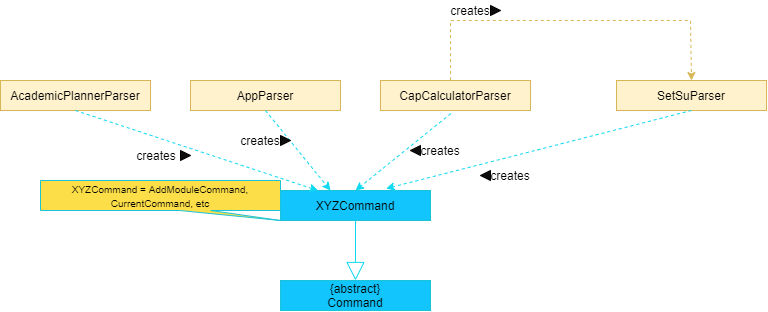
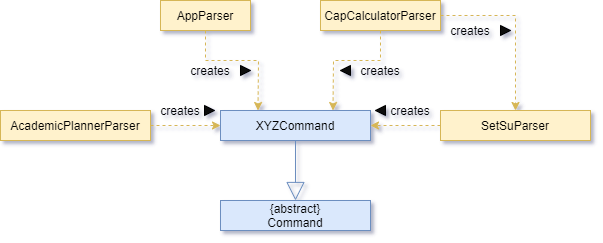
Updated DG Diagram and PPP

diff --git a/docs/team/khenus.md b/docs/team/khenus.md
@@ -18,7 +18,7 @@ PlanNUS is a CLI-based project which aims to provide a centralised solution for 
 * **New Functionality:** Creation of `ModuleLoader` class
     * What it does: The `ModuleLoader` class allows for the creation of a POJO and HashMap from the formatted JSON file containing all NUS module information using GSON library from Google.
     * Justification: This class creates an ArrayList named `allModules` for fellow developers to access module information when needed.  It also creates a HashMap named `moduleMap` that stores the Module Code and the index of said module in `allModules`. This allows for efficient retrieval of module information from `allModules`.
-    * Highlights: This implementation allows for near $o(1)$ access of the huge `allModules` array with 12436 entries, preventing PlanNUS from feeling sluggish. 
+    * Highlights: This implementation allows for near *o(1)* access of the huge `allModules` array with 12436 entries, preventing PlanNUS from feeling sluggish. 
 * **New Functionality:** Creation of `AppParser` class
     * What it does: The `AppParser` class parses user input and starts the correct application for users. `AppParser` also handles the passing of user data between different application. 
     * Justification:  This class is created to allow for new applications to be added into PlanNUS easily. It also allows for formatting of user input before it is verified against the list of known command and acts as a centralised entry point for their individual applications.
@@ -28,7 +28,7 @@ PlanNUS is a CLI-based project which aims to provide a centralised solution for 
 * **New Functionality:**  Creation of `CalculatorUtils` class
     * What it does: This class updates user's CAP after each module operation such as `add`, `edit` and `remove`
     * Justification: This calculation is needed after each operation to ensure that the current CAP of the user is updated. It also prevents miscalculation of CAP due to Special Grades such as SU.
-    * Highlights: These operations improves overall efficiency of CAP Calculator as these operation execute within $o(1)$ time and allows `current` command in CAP Calculator to be $o(1)$.
+    * Highlights: These operations improves overall efficiency of CAP Calculator as these operation execute within *o(1)* time and allows `current` command in CAP Calculator to be *o(1)*.
 * **New Functionality:** Creation of `FieldValidator` class
     * What it does: `FieldValidator` is responsible for ensuring that each entry from the save file is valid. It also gives information regarding which specific field within that entry is corrupted.
     * Justification: This class is needed to ensure that corrupted entries within the save file can be handled by PlanNUS gracefully.
@@ -56,81 +56,81 @@ PlanNUS is a CLI-based project which aims to provide a centralised solution for 
 
 * **Contributions to the Developer Guide (Extract)** 
 
-  * ## 3. Design
+## 3. Design
 
-    ### 3.1. Architecture
+### 3.1. Architecture
 
-    <div style="text-align:center">
-        <img src="../images/DeveloperGuide/Architecture.png" alt="Architecture diagram of PlanNUS"/>
-    </div>
+<div style="text-align:center">
+    <img src="../images/DeveloperGuide/Architecture.png" alt="Architecture diagram of PlanNUS"/>
+</div>
 
 
-    The ***Architecture Diagram*** given above explains the high-level design of PlanNUS. Below is a quick overview of each component.
-    
-    <br>
-    
-    ### 3.2. Overview
-    
-    #### 3.2.1. PlanNus
-    
-    `PlanNus` class contains the `main` and `run` method, which is responsible for
-    
-      * At launch
-    
-        * Loading all modules for AY2020/21 into PlanNUS
-    
-        * Loading previous save file into PlanNUS if available
-    
-        * Creation of entry point to available apps in PlanNUS
-    
-      * While running
-    
-        * Continuously prompt user for app selection
-    
-      * At shut down
-    
-        * Saving of user data into save file
-        * Clean up methods where necessary
-    
-    <br>
-    
-    #### 3.2.2. Global, Ui, Parser, Storage, Apps
-    
-    * The `global` package contains classes, exceptions and objects that are required across the whole app. 
-    * The `ui` package contains the class that is responsible for sharing one `scanner` class across the whole app to prevent multiple IO streams
-    * The `parser` package contains the class that handles user's app selection
-    * The `storage` package handles loading and saving of user's data to a save file.
-    * Packages for Available apps such as Academic Planner and CAP Calculator are stored within `apps` package
-    
-    <br>
-    
-    ### 3.3. Project Structure
-    
-    Each package in the PlanNUS as given above follows the following file structure where applicable:
-    
-    * A functional class that acts as the entry point to that module
-    * A parser class that parses user input into executable commands by PlanNUS
-    
-    * `commands`: A package that handles all executable commands given by parser
-    * `commons`: A package with the utilities and shared classes across the parent package
-    * `exceptions`: A package to handle all exceptions thrown across the parent package
-    
-    The interaction within each package should ideally be as shown below.
-    
-    <div style="text-align:center">
-        <img src="../images/DeveloperGuide/Project_structure.png" alt="Architecture diagram for ideal project structure in PlanNUS"/>
-    </div>
-    
-    *Note that while this is the ideal case, packages such as* `global`, `parser` *and* `ui` *might not strictly follow this structure due to these package serving a different function altogether (Refer to the sections below for more details.)*
-    
-    <br>
-    
-    ### 3.4. Life cycle of PlanNUS
-    
-    The [*sequence diagram*](#sequence-diagram) below shows how different packages and classes interact with each other throughout the whole [life cycle](#life-cycle) of PlanNUS.
-    
-    <div style="text-align:center">
-        <img src="../images/DeveloperGuide/Packages_Interaction.png" alt="Sequence diagram for lifecycle of PlanNUS"/>
-    </div>
-    
-    <br>
+The ***Architecture Diagram*** given above explains the high-level design of PlanNUS. Below is a quick overview of each component.
+
+<br>
+
+### 3.2. Overview
+
+#### 3.2.1. PlanNus
+
+`PlanNus` class contains the `main` and `run` method, which is responsible for
+
+  * At launch
+
+    * Loading all modules for AY2020/21 into PlanNUS
+
+    * Loading previous save file into PlanNUS if available
+
+    * Creation of entry point to available apps in PlanNUS
+
+  * While running
+
+    * Continuously prompt user for app selection
+
+  * At shut down
+
+    * Saving of user data into save file
+    * Clean up methods where necessary
+
+<br>
+
+#### 3.2.2. Global, Ui, Parser, Storage, Apps
+
+* The `global` package contains classes, exceptions and objects that are required across the whole app. 
+* The `ui` package contains the class that is responsible for sharing one `scanner` class across the whole app to prevent multiple IO streams
+* The `parser` package contains the class that handles user's app selection
+* The `storage` package handles loading and saving of user's data to a save file.
+* Packages for Available apps such as Academic Planner and CAP Calculator are stored within `apps` package
+
+<br>
+
+### 3.3. Project Structure
+
+Each package in the PlanNUS as given above follows the following file structure where applicable:
+
+* A functional class that acts as the entry point to that module
+* A parser class that parses user input into executable commands by PlanNUS
+
+* `commands`: A package that handles all executable commands given by parser
+* `commons`: A package with the utilities and shared classes across the parent package
+* `exceptions`: A package to handle all exceptions thrown across the parent package
+
+The interaction within each package should ideally be as shown below.
+
+<div style="text-align:center">
+    <img src="../images/DeveloperGuide/Project_structure.png" alt="Architecture diagram for ideal project structure in PlanNUS"/>
+</div>
+
+*Note that while this is the ideal case, packages such as* `global`, `parser` *and* `ui` *might not strictly follow this structure due to these package serving a different function altogether (Refer to the sections below for more details.)*
+
+<br>
+
+### 3.4. Life cycle of PlanNUS
+
+The [*sequence diagram*](#sequence-diagram) below shows how different packages and classes interact with each other throughout the whole [life cycle](#life-cycle) of PlanNUS.
+
+<div style="text-align:center">
+    <img src="../images/DeveloperGuide/Packages_Interaction.png" alt="Sequence diagram for lifecycle of PlanNUS"/>
+</div>
+
+<br>
